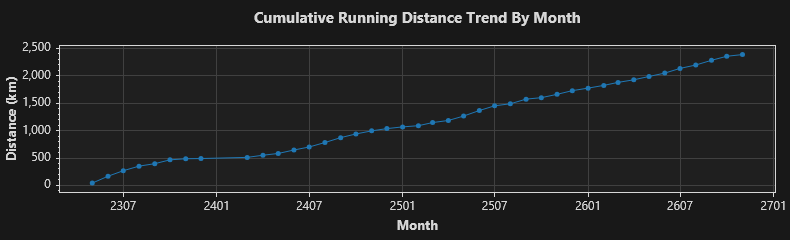
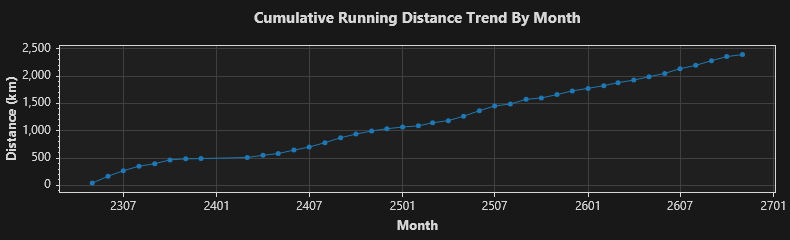
2026/11/16 跑步 6.12 公里

diff --git a/trend.md b/trend.md
@@ -1,4 +1,4 @@
-### Total: 404 days, 2386.4299999999998362909536809 km.
+### Total: 405 days, 2392.5500000000001818989403546 km.
 
 
 ![Monthly](https://github.com/prime167/MyRunningLog/blob/main/data/CumulativeTrendByMonth.png)
